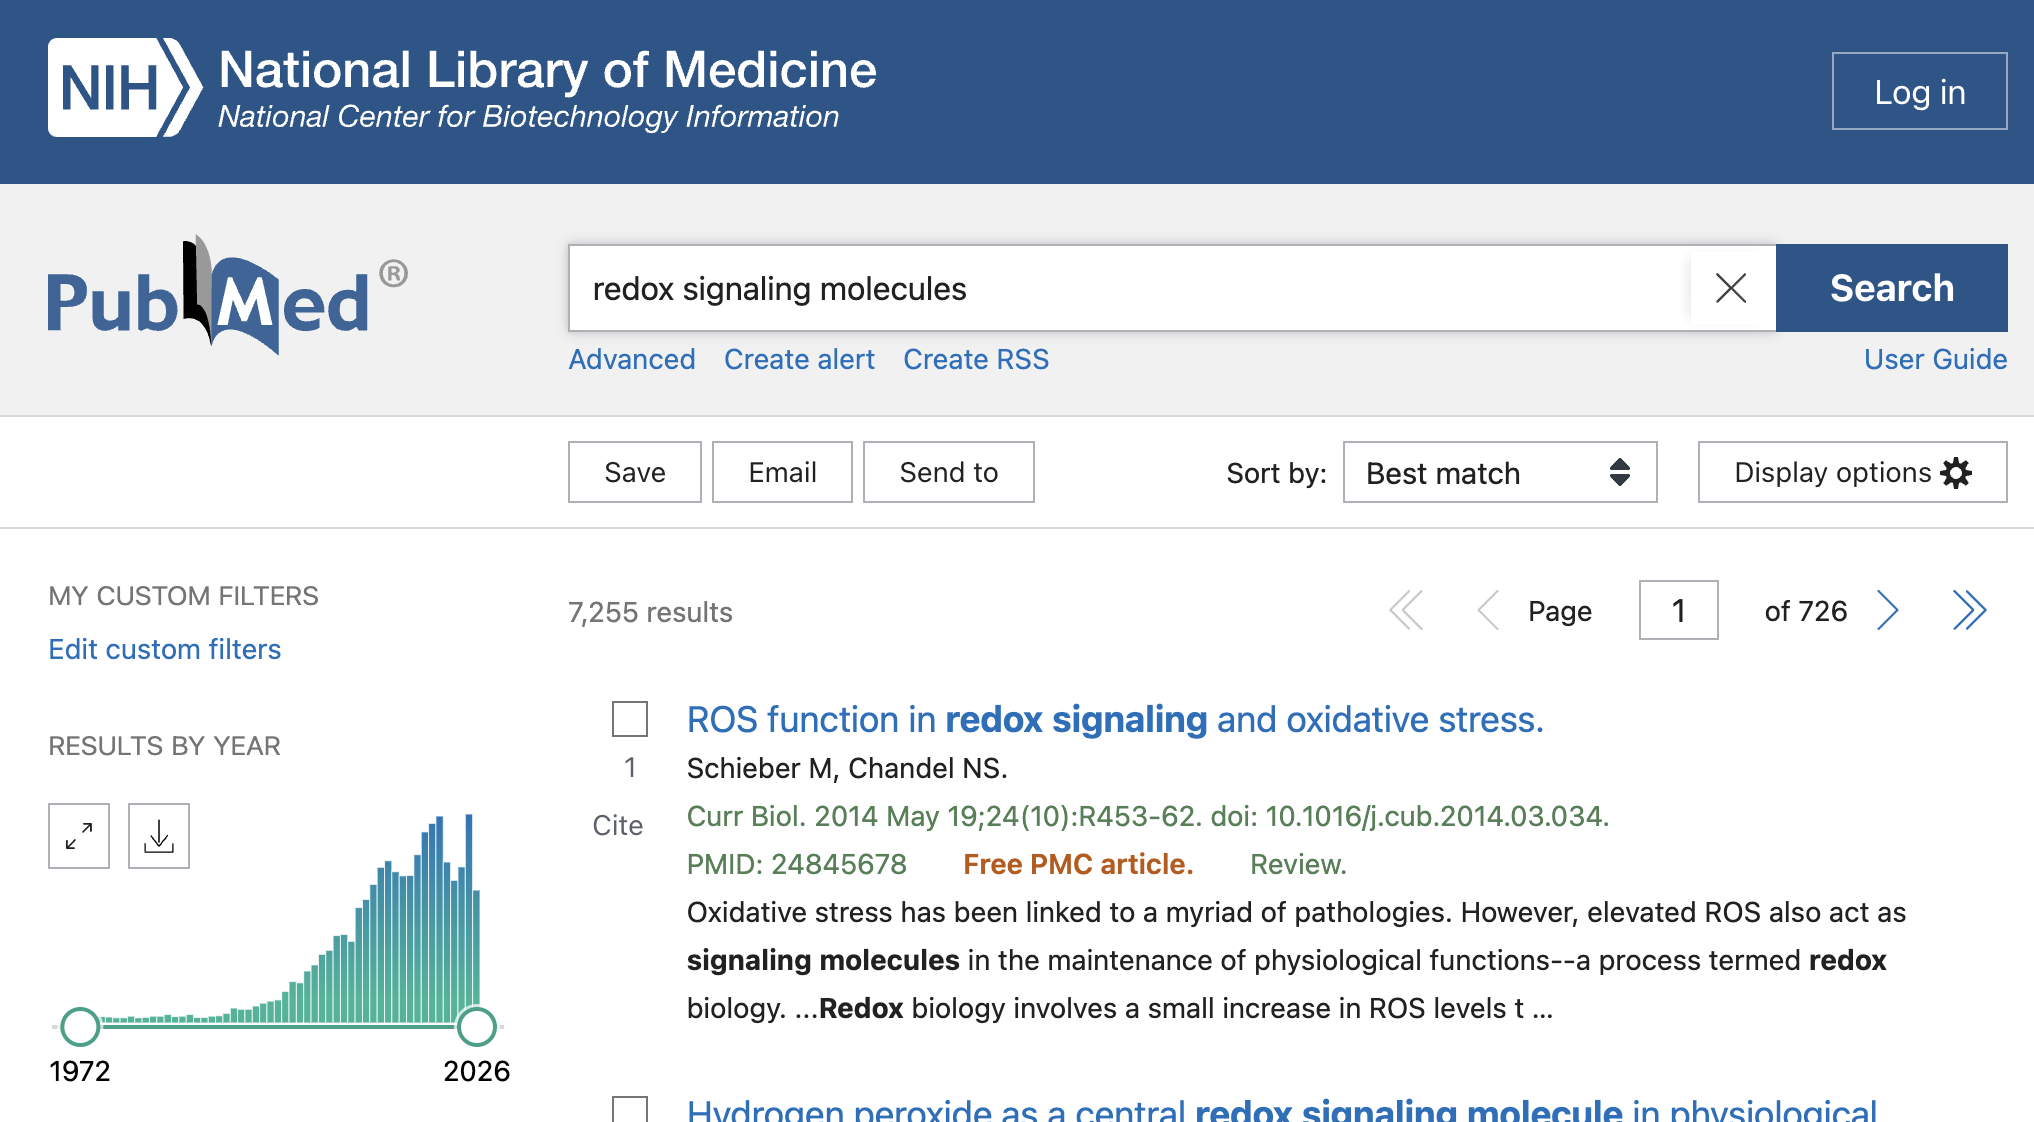
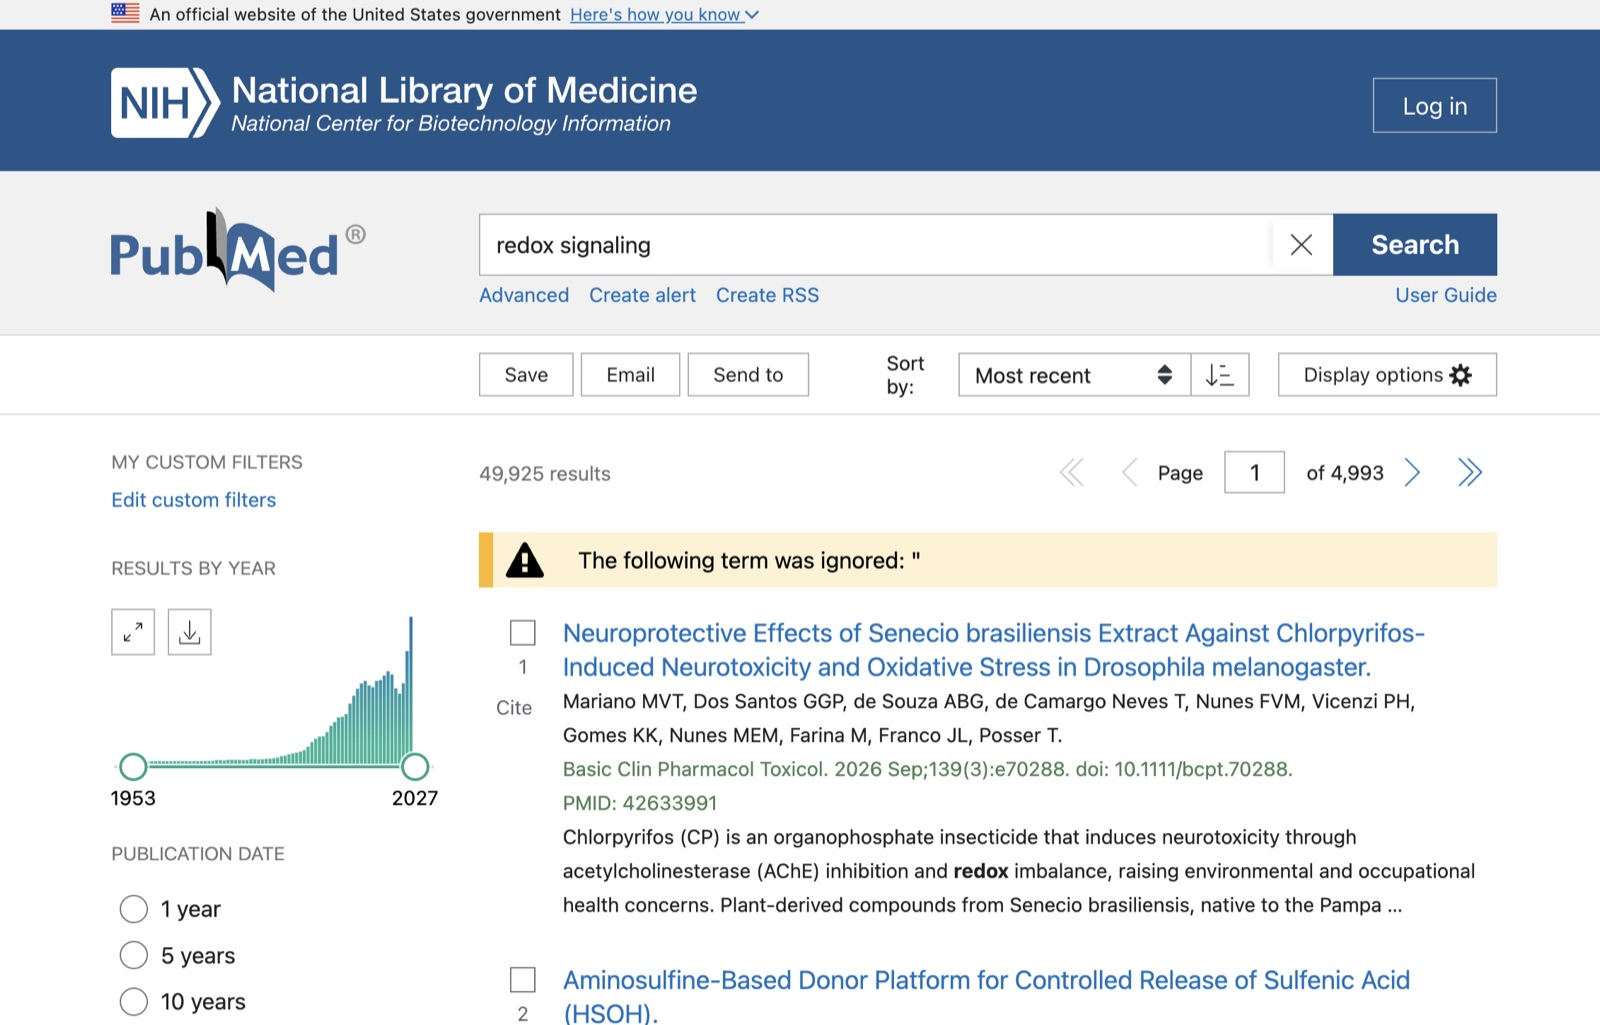
Update PubMed proof to Aug 2026; reconcile conflicting counts
New screenshot (search: "redox signaling", captured 2026-08-23) shows
49,925 results, up from 48,222 in June.

The same image was being paired with four different numbers across the
site, none of which matched what the picture showed:

- index.html    48,222  -> 49,925
- welcome.html  48,222  -> 49,925
- doctors.html   4,158  -> 49,925
- faq.html      "over 4,000 published papers" -> "nearly 50,000"

faq.html was the most exposed: it instructs the reader to run the search
themselves, then told them what they'd find, and the two didn't agree.

Also removed the "259 new papers in the first half of 2026" claim from
doctors.html, faq.html, and business.html. It appears in three places
with no source in the vault and cannot be confirmed from the screenshot.
Replaced with the growth-curve language the screenshot does support. If
a source exists, it can be restored.

Image re-encoded to JPEG at 1600px (420KB PNG -> 259KB).

Note: welcome.html also carries pre-existing uncommitted data-sec
attribute additions, included here because leaving them out would have
split the file's state.

diff --git a/welcome.html b/welcome.html
@@ -894,7 +894,7 @@
         <a href="https://aseaglobal.com/redoxsolution" target="_blank" rel="noopener" style="background:#2a7d7b;color:#fff;padding:6px 16px;border-radius:20px;text-decoration:none;font-size:13px;font-weight:500;">Shop</a>
     </div>
 
-    <section class="welcome-hero">
+    <section class="welcome-hero" data-sec="01-welcome-hero">
         <div class="welcome-hero-inner">
             <div class="fritz-photo">
                 <img src="fritz.jpg" alt="Fritz Strehlow">
@@ -917,7 +917,7 @@
     <!-- ═══════════════════════════════════════════
          STRESSOR NARRATIVE
          ═══════════════════════════════════════════ -->
-    <section class="stressor-narrative" id="stressorNarrative">
+    <section class="stressor-narrative" id="stressorNarrative" data-sec="02-stressor-narrative">
         <div class="narrative-stage">
 
             <!-- Couple photo with gradual age crossfade -->
@@ -968,7 +968,7 @@
     <!-- ═══════════════════════════════════════════
          ORCHESTRA ANALOGY
          ═══════════════════════════════════════════ -->
-    <section class="orchestra-section">
+    <section class="orchestra-section" data-sec="03-orchestra-section">
         <div class="orchestra-inner">
             <span class="orchestra-icon">&#127931;</span>
             <h2>Think of It Like an Orchestra</h2>
@@ -1019,7 +1019,7 @@
     <!-- ═══════════════════════════════════════════
          THE SCOPE — EVIDENCE SECTION
          ═══════════════════════════════════════════ -->
-    <section class="section">
+    <section class="section" data-sec="04-section">
         <div class="section-inner">
             <span class="section-label">What the Science Is Saying</span>
             <h2>This Is Bigger Than I Expected</h2>
@@ -1047,9 +1047,9 @@
                     <span class="card-label">Published Research</span>
                     <div class="graph-wrapper">
                         <!-- Replace with PubMed graph screenshot -->
-                        <img src="pubmed-redox-signaling.jpg" alt="PubMed search results showing explosive growth in redox signaling research — 48,222 published papers">
+                        <img src="pubmed-redox-signaling.jpg" alt="PubMed search results showing explosive growth in redox signaling research — 49,925 published papers">
                     </div>
-                    <span class="stat-big">48,222</span>
+                    <span class="stat-big">49,925</span>
                     <h3>Published Studies on Redox&nbsp;Signaling</h3>
                     <p>This is a search for "redox signaling" on PubMed — the U.S. National Library of Medicine. Look at the growth curve. This field barely existed 30 years ago. Now it's one of the fastest-growing areas in biomedical research.</p>
                     <p>The science isn't weak. The awareness is.</p>
@@ -1072,7 +1072,7 @@
     <!-- ═══════════════════════════════════════════
          TESTIMONIAL TAG CLOUD
          ═══════════════════════════════════════════ -->
-    <section class="section section-alt">
+    <section class="section section-alt" data-sec="05-section-alt">
         <div class="section-inner" style="max-width: 860px;">
             <div class="cloud-intro">
                 <span class="section-label">Real People, Real Experiences</span>
@@ -1132,7 +1132,7 @@
     <!-- ═══════════════════════════════════════════
          SELF-SELECTION PATHS
          ═══════════════════════════════════════════ -->
-    <section class="section">
+    <section class="section" data-sec="06-section">
         <div class="section-inner" style="max-width: 860px;">
             <div class="paths-intro">
                 <h2>Where Would You Like to Start?</h2>
@@ -1176,7 +1176,7 @@
     <!-- ═══════════════════════════════════════════
          QUIET CLOSE
          ═══════════════════════════════════════════ -->
-    <section class="quiet-close section-alt">
+    <section class="quiet-close section-alt" data-sec="07-quiet-close">
         <div class="section-inner">
             <h2>No Pressure. Just a Door.</h2>
 
@@ -1307,5 +1307,102 @@
         });
     })();
     </script>
+    <!-- ENGAGEMENT TRACKING (injected) -->
+    <script>
+    (function() {
+        // Engagement instrumentation. The point of this block is to produce ONE event
+        // (QualifiedRead) that an accidental tap or a non-rendering bot cannot generate,
+        // so campaigns have something real to optimise toward instead of raw clicks.
+        var fired = {};
+        function send(name, params) {
+            if (fired[name]) return;
+            fired[name] = true;
+            if (window.gtag) gtag('event', name, params || {});
+            if (window.fbq) fbq('trackCustom', name, params || {});
+        }
+
+        // Engaged time only accrues while the tab is genuinely visible.
+        var engagedMs = 0, lastTick = Date.now();
+        function isVisible() { return document.visibilityState === 'visible'; }
+        function accrue() {
+            var now = Date.now();
+            if (isVisible()) engagedMs += now - lastTick;
+            lastTick = now;
+        }
+        document.addEventListener('visibilitychange', accrue);
+
+        var doc = document.documentElement;
+        function reachable() { return doc.scrollHeight - window.innerHeight; }
+        // Short pages (embeds, single-screen layouts) have no meaningful scroll signal,
+        // so they qualify on dwell alone rather than emitting a bogus scroll_100.
+        var SHORT_PAGE = reachable() < 400;
+
+        var maxPct = 0;
+        function depth() {
+            var r = reachable();
+            if (r <= 0) return 0;
+            var y = window.pageYOffset || doc.scrollTop;
+            return Math.min(100, Math.round((y / r) * 100));
+        }
+
+        function checkQualified() {
+            if (engagedMs < 30000) return;
+            if (SHORT_PAGE || maxPct >= 50) {
+                send('QualifiedRead', { scroll_pct: maxPct, engaged_seconds: Math.round(engagedMs/1000) });
+            }
+        }
+
+        if (!SHORT_PAGE) {
+            var ticking = false;
+            window.addEventListener('scroll', function() {
+                if (ticking) return;
+                ticking = true;
+                window.requestAnimationFrame(function() {
+                    ticking = false;
+                    accrue();
+                    var pct = depth();
+                    if (pct > maxPct) maxPct = pct;
+                    [25, 50, 75, 100].forEach(function(m) { if (maxPct >= m) send('scroll_' + m); });
+                    checkQualified();
+                });
+            }, { passive: true });
+
+            if ('IntersectionObserver' in window) {
+                var io = new IntersectionObserver(function(entries) {
+                    entries.forEach(function(e) {
+                        if (e.isIntersecting) {
+                            send('sec_' + e.target.getAttribute('data-sec').replace(/-/g, '_'));
+                            io.unobserve(e.target);
+                        }
+                    });
+                }, { threshold: 0.35 });
+                document.querySelectorAll('[data-sec]').forEach(function(el) { io.observe(el); });
+            }
+        }
+
+        setInterval(function() {
+            accrue();
+            var s = Math.round(engagedMs / 1000);
+            if (s >= 30)  send('read_30s');
+            if (s >= 60)  send('read_60s');
+            if (s >= 120) send('read_120s');
+            checkQualified();
+        }, 5000);
+
+        var sentExit = false;
+        function exitSnapshot() {
+            if (sentExit || isVisible()) return;
+            sentExit = true;
+            accrue();
+            var params = { scroll_pct: maxPct, engaged_seconds: Math.round(engagedMs/1000) };
+            if (window.gtag) gtag('event', 'page_exit', params);
+            if (window.fbq) fbq('trackCustom', 'PageExit', params);
+        }
+        document.addEventListener('visibilitychange', exitSnapshot);
+        window.addEventListener('pagehide', function(){ sentExit = false; exitSnapshot(); });
+    })();
+    </script>
+    <!-- /ENGAGEMENT TRACKING -->
+
 </body>
 </html>

diff --git a/doctors.html b/doctors.html
@@ -634,11 +634,11 @@
                 <div class="evidence-card">
                     <span class="card-label">Published Research</span>
                     <div class="graph-wrapper">
-                        <img src="pubmed-redox-signaling.jpg" alt="PubMed search results showing explosive growth in redox signaling research">
+                        <img src="pubmed-redox-signaling.jpg" alt="PubMed search results for redox signaling, showing 49,925 published papers and a steeply rising publication curve">
                     </div>
-                    <span class="stat-big">4,158</span>
+                    <span class="stat-big">49,925</span>
                     <h3>Published Studies on Redox&nbsp;Signaling</h3>
-                    <p>This is a search for &ldquo;redox signaling&rdquo; on PubMed &mdash; the U.S. National Library of Medicine. Look at the growth curve. This field barely existed 30 years ago. In the first half of 2026 alone, 259 new papers were published &mdash; a pace that would nearly double last year's total.</p>
+                    <p>This is a search for &ldquo;redox signaling&rdquo; on PubMed &mdash; the U.S. National Library of Medicine. Look at the growth curve. This field barely existed 30 years ago. Now it's one of the fastest-growing areas in biomedical research &mdash; and it still hasn't reached most doctors' offices.</p>
                     <p>The science isn't weak. The awareness is.</p>
                 </div>
             </div>

diff --git a/faq.html b/faq.html
@@ -329,7 +329,7 @@
                     <span class="faq-icon">+</span>
                 </button>
                 <div class="faq-answer">
-                    <p>Because the science is ahead of public awareness. Go to <strong>PubMed.gov</strong> &mdash; the U.S. National Library of Medicine's research database &mdash; and search "redox signaling." You'll find over 4,000 published papers, and the growth curve is accelerating. In the first half of 2026 alone, 259 new papers were published &mdash; a pace that would nearly double last year's total.</p>
+                    <p>Because the science is ahead of public awareness. Go to <strong>PubMed.gov</strong> &mdash; the U.S. National Library of Medicine's research database &mdash; and search "redox signaling." You'll find nearly 50,000 published papers, and the growth curve is accelerating steeply.</p>
                     <p>The research is there. It just hasn't made the leap from the lab to the doctor's office yet &mdash; and that's normal. Think about how long it took for the microbiome to go from obscure science to something everyone talks about. Redox signaling is on that same trajectory, just earlier on the curve.</p>
                     <p>The fact that you haven't heard of it isn't a red flag. It's the whole point.</p>
                 </div>

diff --git a/index.html b/index.html
@@ -568,10 +568,10 @@
             <span class="pubmed-label">Published Research</span>
             <h2>You Haven't Heard of It. The Research Has.</h2>
             <figure class="pubmed-figure">
-                <img src="pubmed-redox-signaling.jpg" alt="PubMed search results for redox signaling, showing 48,222 published papers and a steeply rising publication curve" loading="lazy">
+                <img src="pubmed-redox-signaling.jpg" alt="PubMed search results for redox signaling, showing 49,925 published papers and a steeply rising publication curve" loading="lazy">
                 <figcaption>A search for &ldquo;redox signaling&rdquo; on PubMed, the U.S. National Library of Medicine.</figcaption>
             </figure>
-            <p class="pubmed-stat">48,222 published studies</p>
+            <p class="pubmed-stat">49,925 published studies</p>
             <p>Look at the growth curve. This field barely existed 30 years ago. Now it's one of the fastest-growing areas in biomedical research &mdash; and it still hasn't reached most doctors' offices.</p>
             <p class="pubmed-kicker">The science isn't weak. The awareness is.</p>
         </div>

diff --git a/business.html b/business.html
@@ -550,7 +550,7 @@
                 <p class="attr">&mdash; Dr. Ahvie Herskowitz, MD</p>
             </div>
 
-            <p>If he's right &mdash; and history suggests he is &mdash; we're roughly halfway through the adoption curve. The science is accelerating (259 new papers in just the first half of 2026), but mainstream awareness hasn't caught up. That window between <em>the science knowing</em> and <em>the world knowing</em> is where the business opportunity lives.</p>
+            <p>If he's right &mdash; and history suggests he is &mdash; we're roughly halfway through the adoption curve. The science is accelerating &mdash; nearly 50,000 published papers on redox signaling, on a steeply rising curve &mdash; but mainstream awareness hasn't caught up. That window between <em>the science knowing</em> and <em>the world knowing</em> is where the business opportunity lives.</p>
 
             <ul class="timeline">
                 <li>
